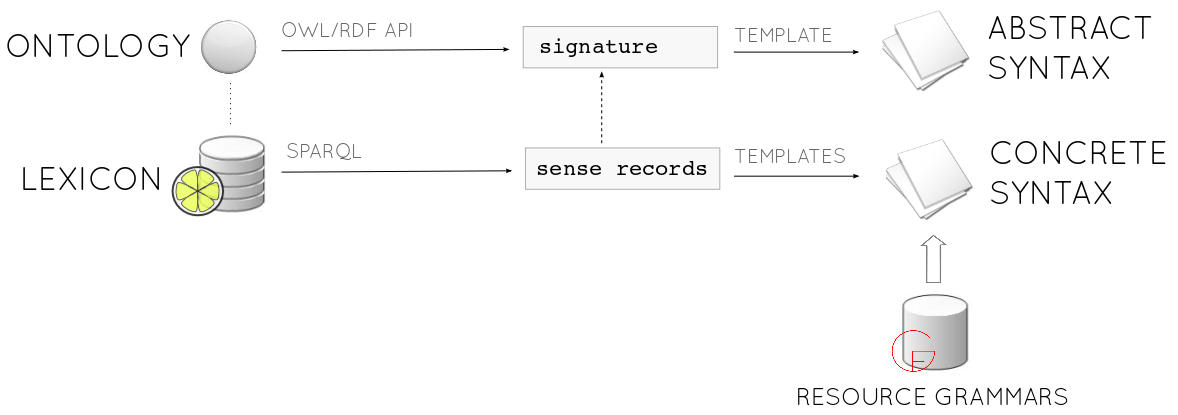
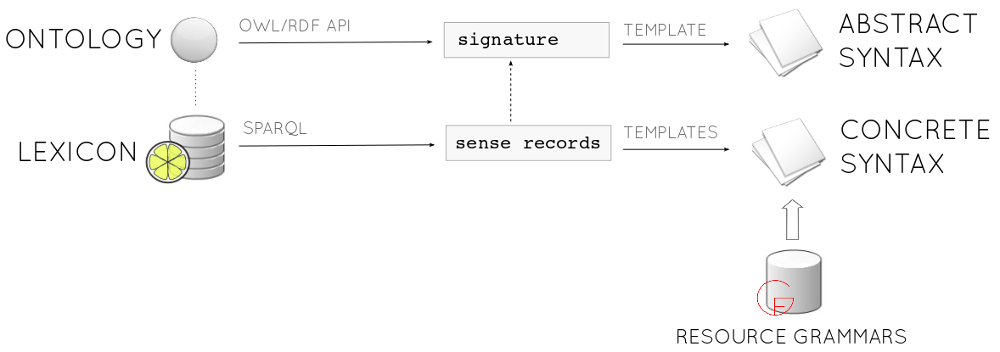
Fix img link and resize image

diff --git a/src/lemon2gf.md b/src/lemon2gf.md
@@ -2,11 +2,13 @@
 
 <a href="https://github.com/cunger/lemon2gf">lemon2gf</a> is a Python script that transforms an ontology and one or more attached lemon lexica into a <a href="http://www.grammaticalframework.org">Grammatical Framework</a> (GF) grammar.
 
+lemon2gf can be downloaded from [GitHub](https://github.com/cunger/lemon2gf)
+
 ## Architecture
 
 lemon2gf consists of two steps: mapping the ontology to an abstract syntax, and mapping a corresponding lexicon to a concrete syntax.
 
-![lemon2gf architecture](architecture.png)
+![lemon2gf architecture](img/architecture.png)
 
 
 ### Core grammar
